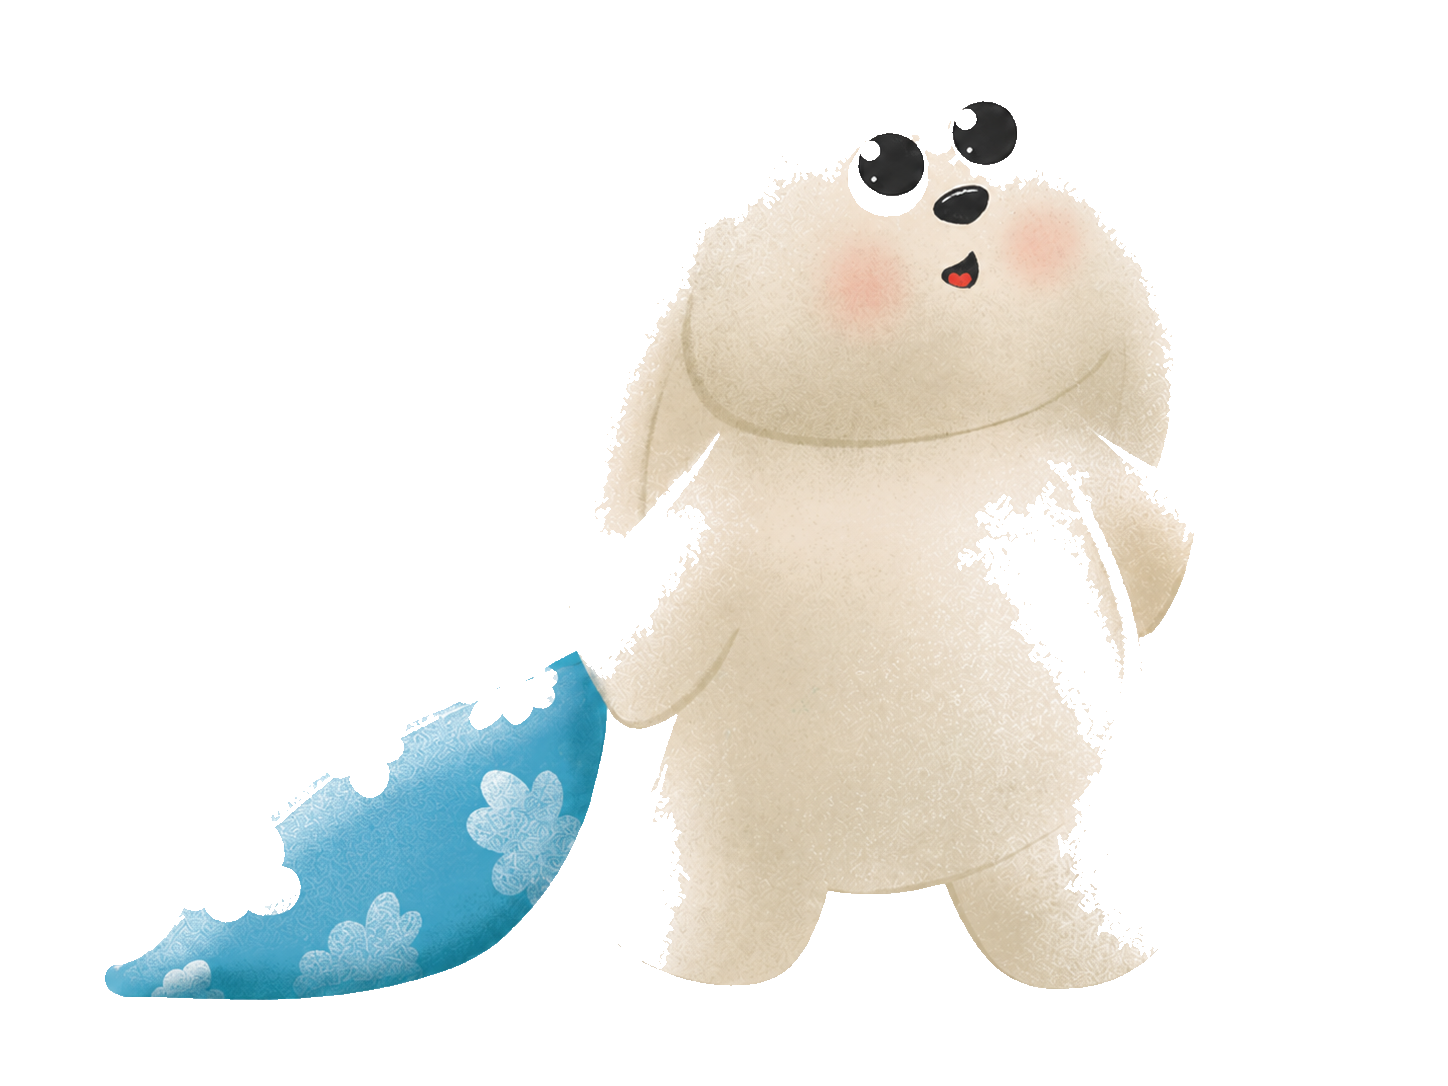
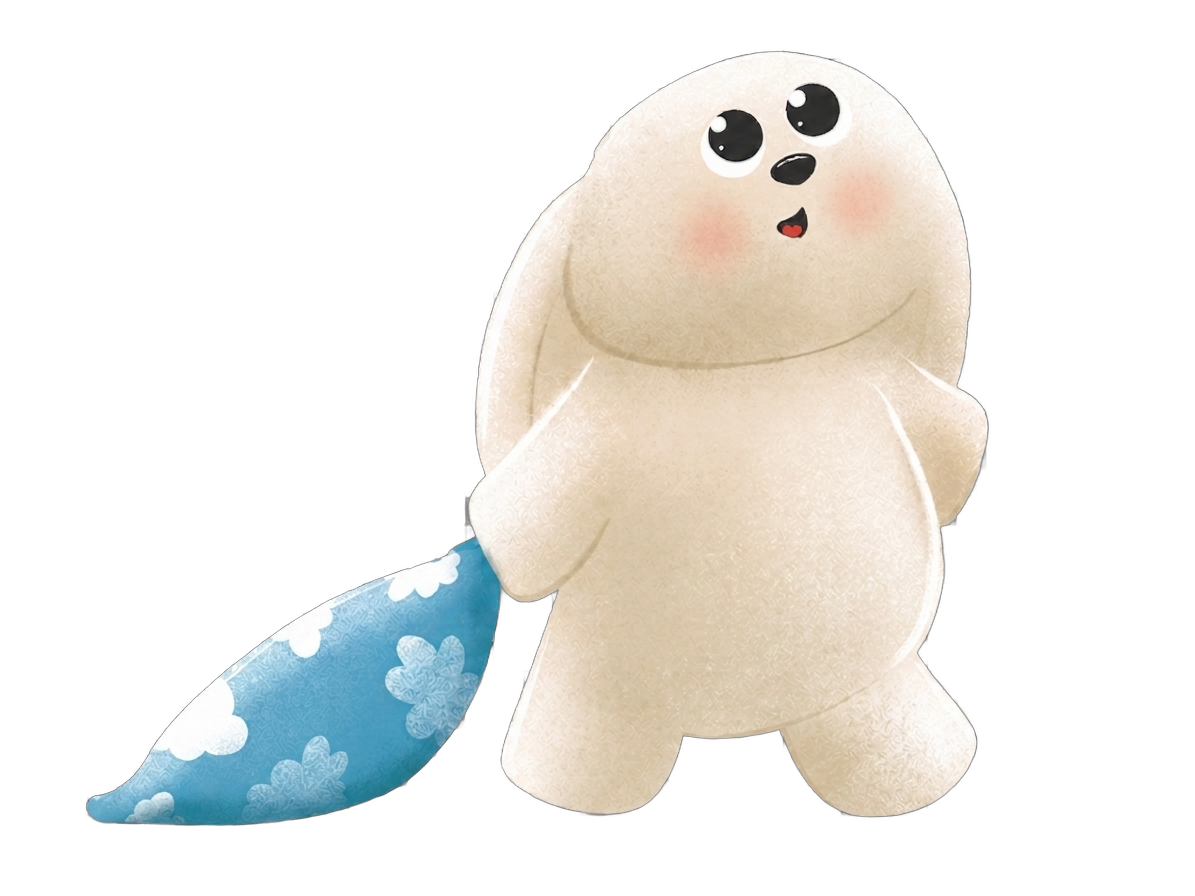
dream-ideas: final hero image — clean transparent bg, rabbit + pillow intact, 300 DPI

diff --git a/scripts/remove-bg-dream.py b/scripts/remove-bg-dream.py
@@ -1,39 +1,23 @@
+from rembg import remove, new_session
 from PIL import Image
-import numpy as np
-from scipy import ndimage
+import io, os
 
-src = r"C:\Users\zaphilli\OneDrive\Family Fables\FF COPY\Books\Dream Ideas\dreamideasheroimage.png"
-dst_project = r"C:\Users\zaphilli\projects\familyfables\public\images\characters\dream-ideas-hero-nobg.png"
-dst_onedrive = r"C:\Users\zaphilli\OneDrive\Family Fables\FF COPY\Books\Dream Ideas\dreamideasheroimage-300dpi.png"
+src      = r"C:\Users\zaphilli\OneDrive\Family Fables\FF COPY\Books\Dream Ideas\1779127961030.png"
+dst_proj = r"C:\Users\zaphilli\projects\familyfables\public\images\characters\dream-ideas-hero-nobg.png"
+dst_od   = r"C:\Users\zaphilli\OneDrive\Family Fables\FF COPY\Books\Dream Ideas\1779127961030-nobg.png"
 
-img = Image.open(src).convert("RGBA")
-data = np.array(img)
+with open(src, "rb") as f:
+    raw = f.read()
 
-r, g, b, a = data[:,:,0], data[:,:,1], data[:,:,2], data[:,:,3]
+# isnet-general-use: best model for illustrated/artistic subjects
+session = new_session("isnet-general-use")
+result  = remove(raw, session=session)
 
-# Identify pixels that are "white-ish" background (all channels > 220)
-white_mask = (r > 220) & (g > 220) & (b > 220)
+img = Image.open(io.BytesIO(result)).convert("RGBA")
+img.save(dst_proj, dpi=(300, 300))
+img.save(dst_od,   dpi=(300, 300))
 
-# Seed from all 4 corners — flood-fill the connected white region from outside in
-# This ensures we ONLY remove background white, not white on the rabbit itself
-seed = np.zeros(white_mask.shape, dtype=bool)
-seed[0, 0] = seed[0, -1] = seed[-1, 0] = seed[-1, -1] = True
-
-# Flood fill: grow connected region from seeds through white pixels
-bg_mask = ndimage.binary_propagation(seed, mask=white_mask)
-
-# Slight expansion to clean up any fringe pixels at the edge
-bg_mask = ndimage.binary_dilation(bg_mask, iterations=1)
-
-# Set background pixels to fully transparent
-data[bg_mask, 3] = 0
-
-result = Image.fromarray(data, "RGBA")
-result.save(dst_project, dpi=(300, 300))
-result.save(dst_onedrive, dpi=(300, 300))
-
-removed = bg_mask.sum()
-total = bg_mask.size
-print(f"Done — removed {removed:,} background pixels ({removed/total*100:.1f}% of image)")
-print(f"Image size: {result.size[0]}x{result.size[1]} @ 300 DPI")
+print(f"Done — {img.size[0]}x{img.size[1]}px @ 300 DPI, transparent background")
+print(f"Project:  {dst_proj}")
+print(f"OneDrive: {dst_od}")
 
